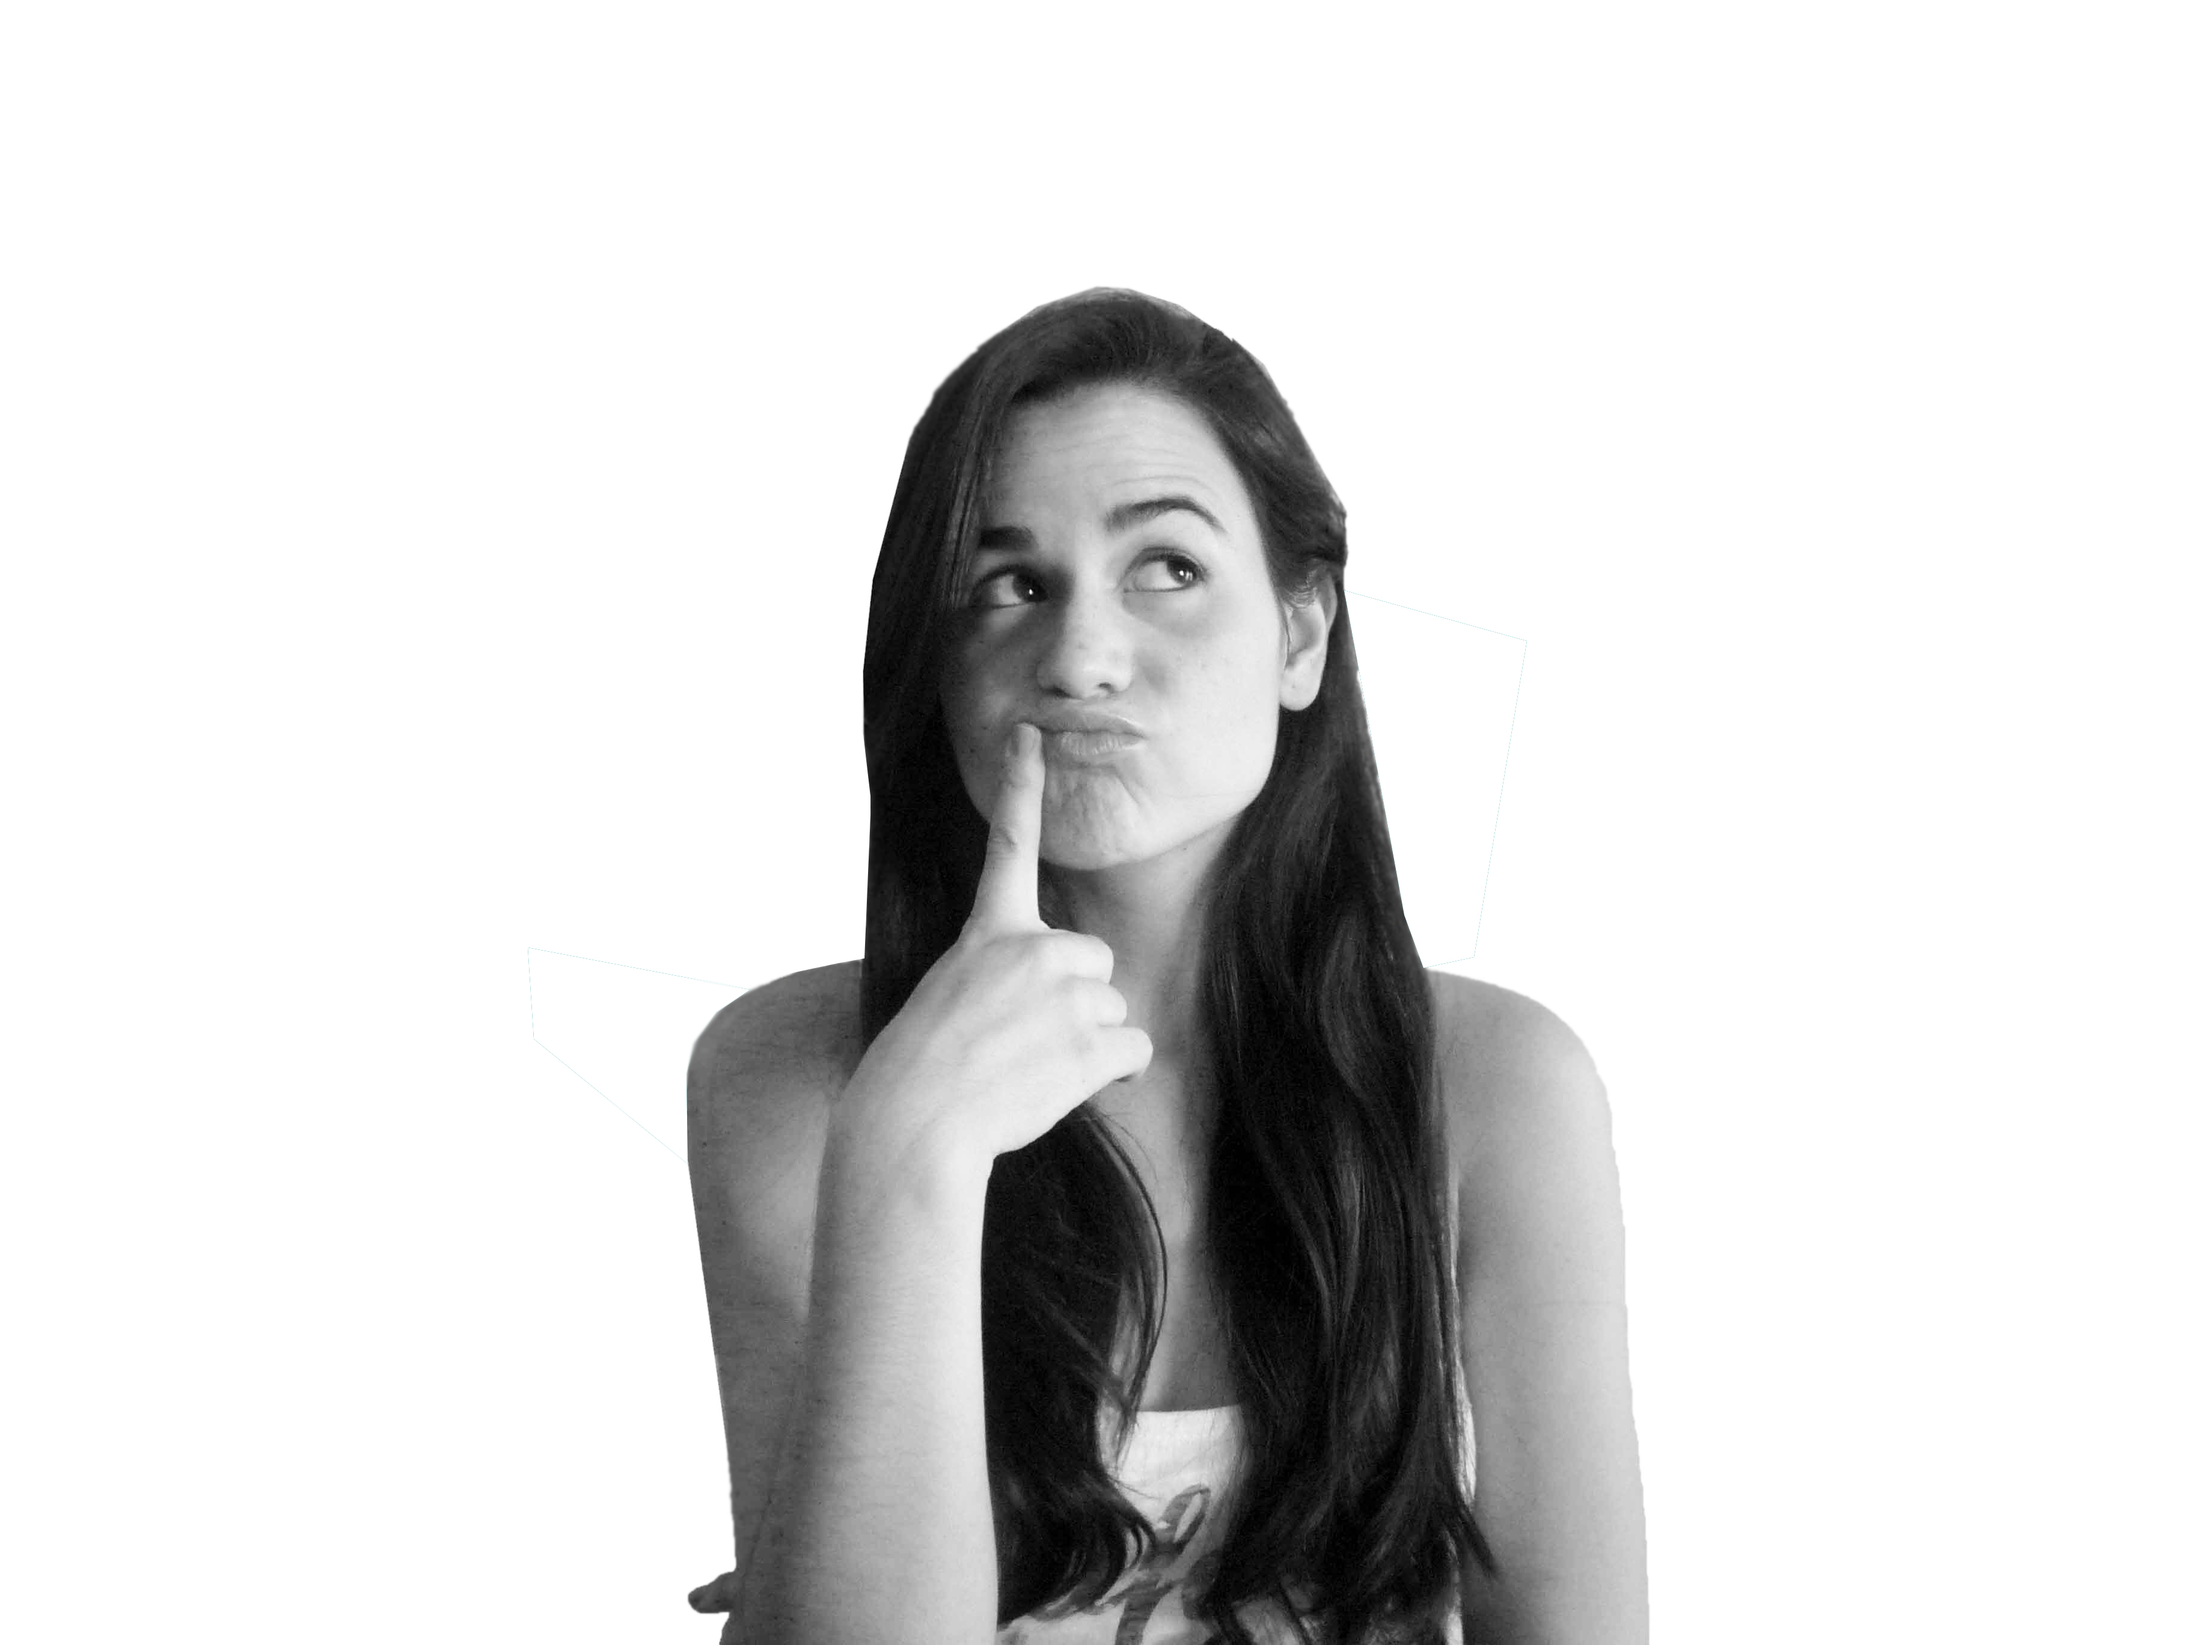
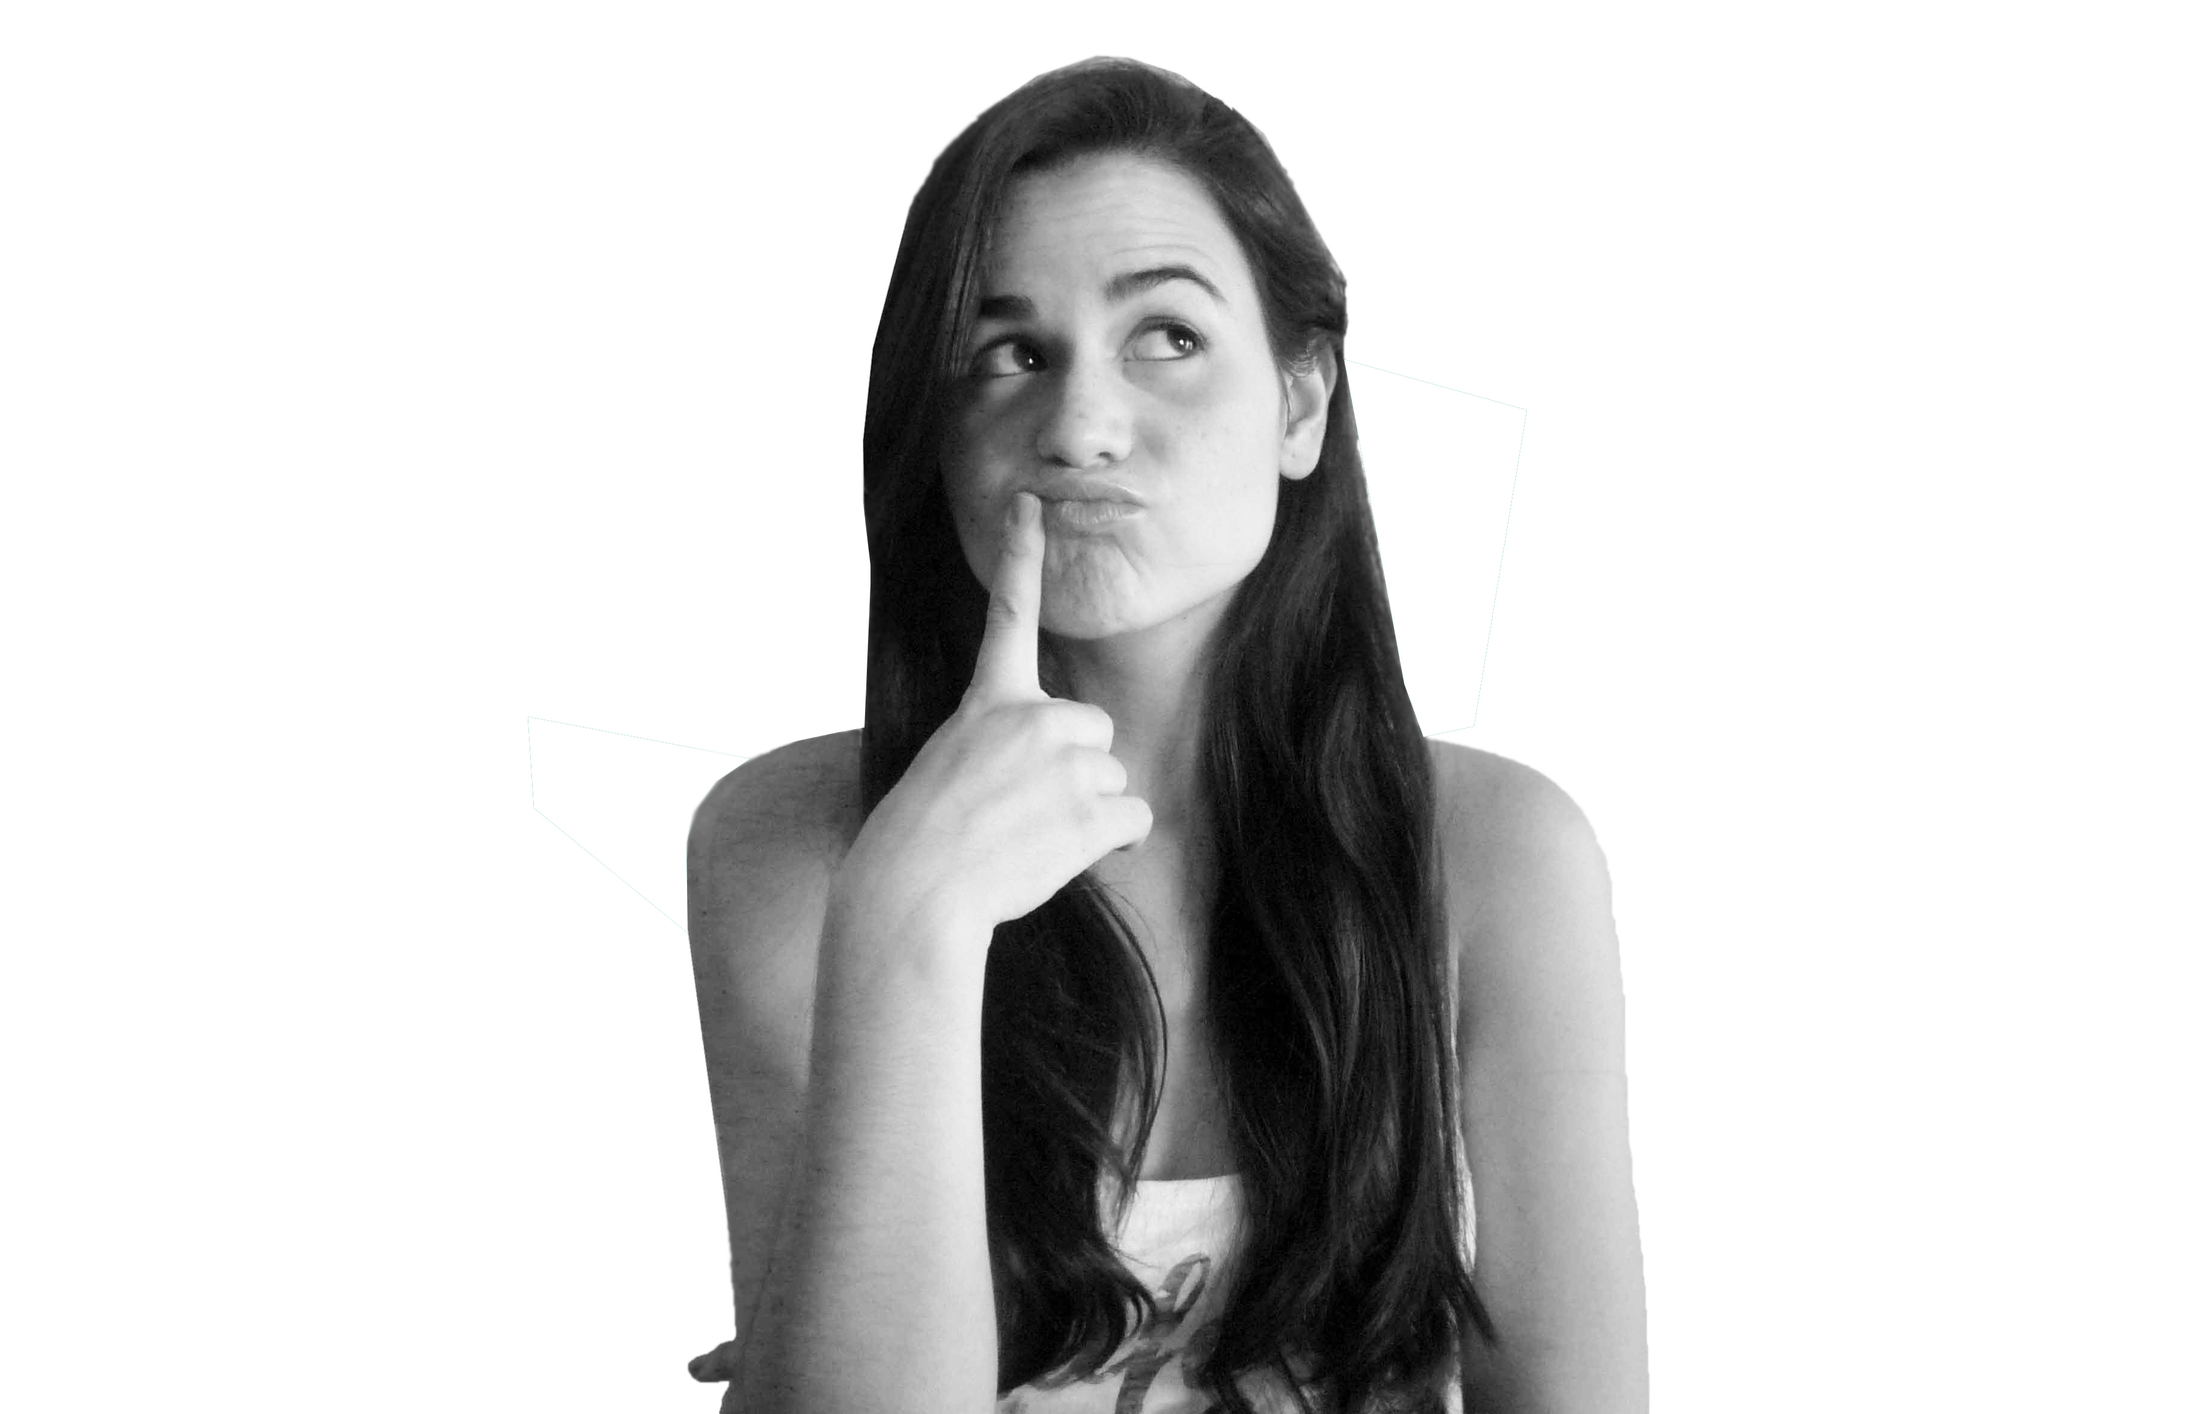
minimize the background image

diff --git a/css/style.css b/css/style.css
@@ -63,7 +63,7 @@ button, a {
 .background-image { /*PARALAX*/
     height: 100%; 
     /* Create the parallax scrolling effect */
-    background-image: url('../images/bg/bg-bl.jpg');
+    background-image: url('../images/bg/queserademi.jpg');
     background-attachment: fixed;
     background-position: center;
     background-repeat: no-repeat;
